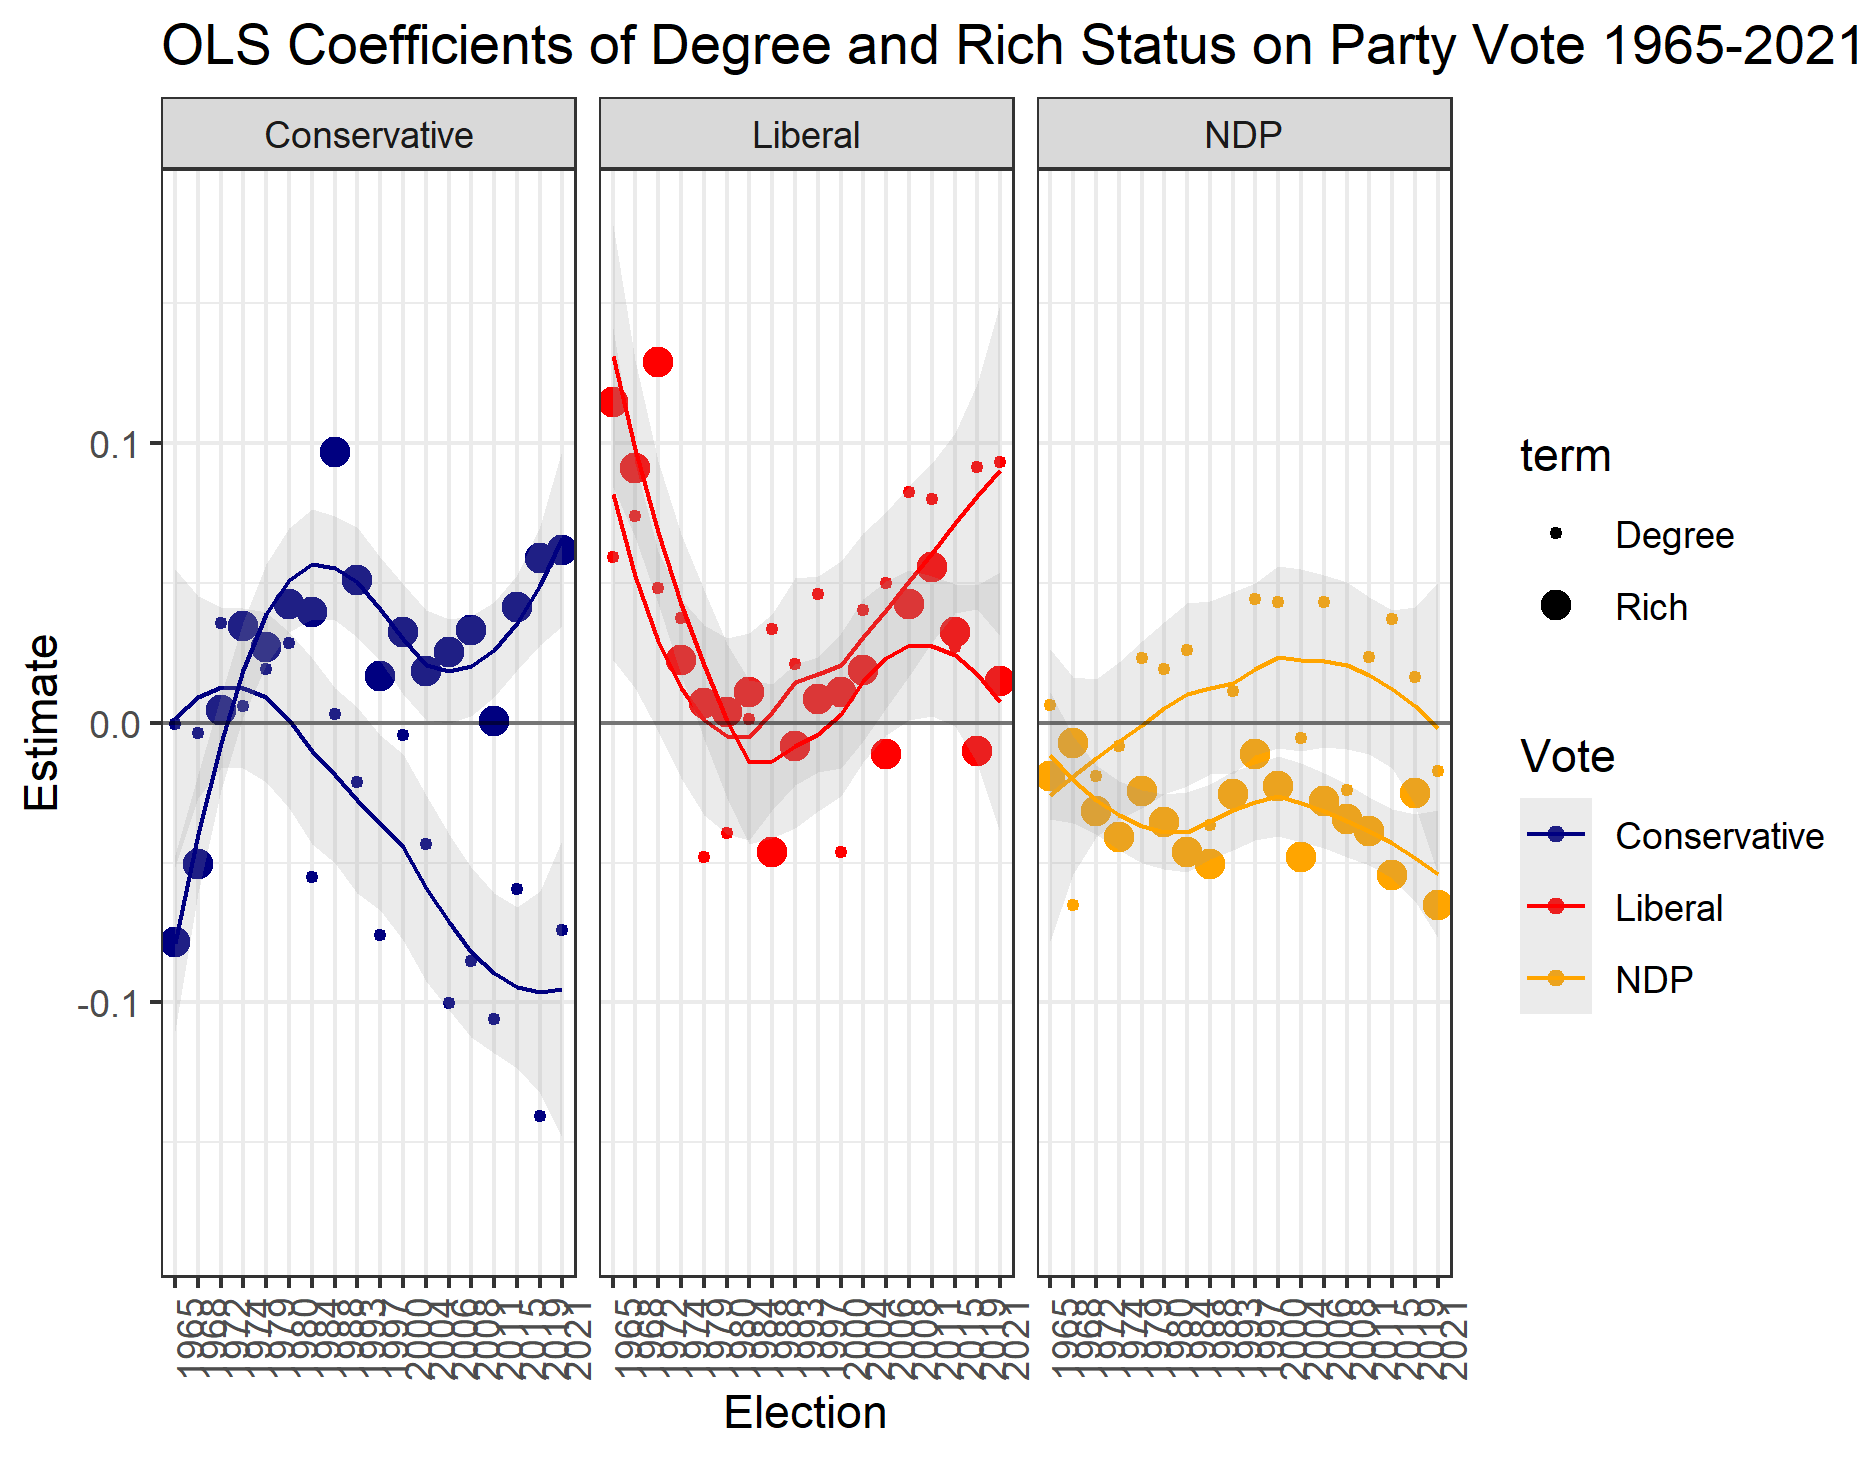
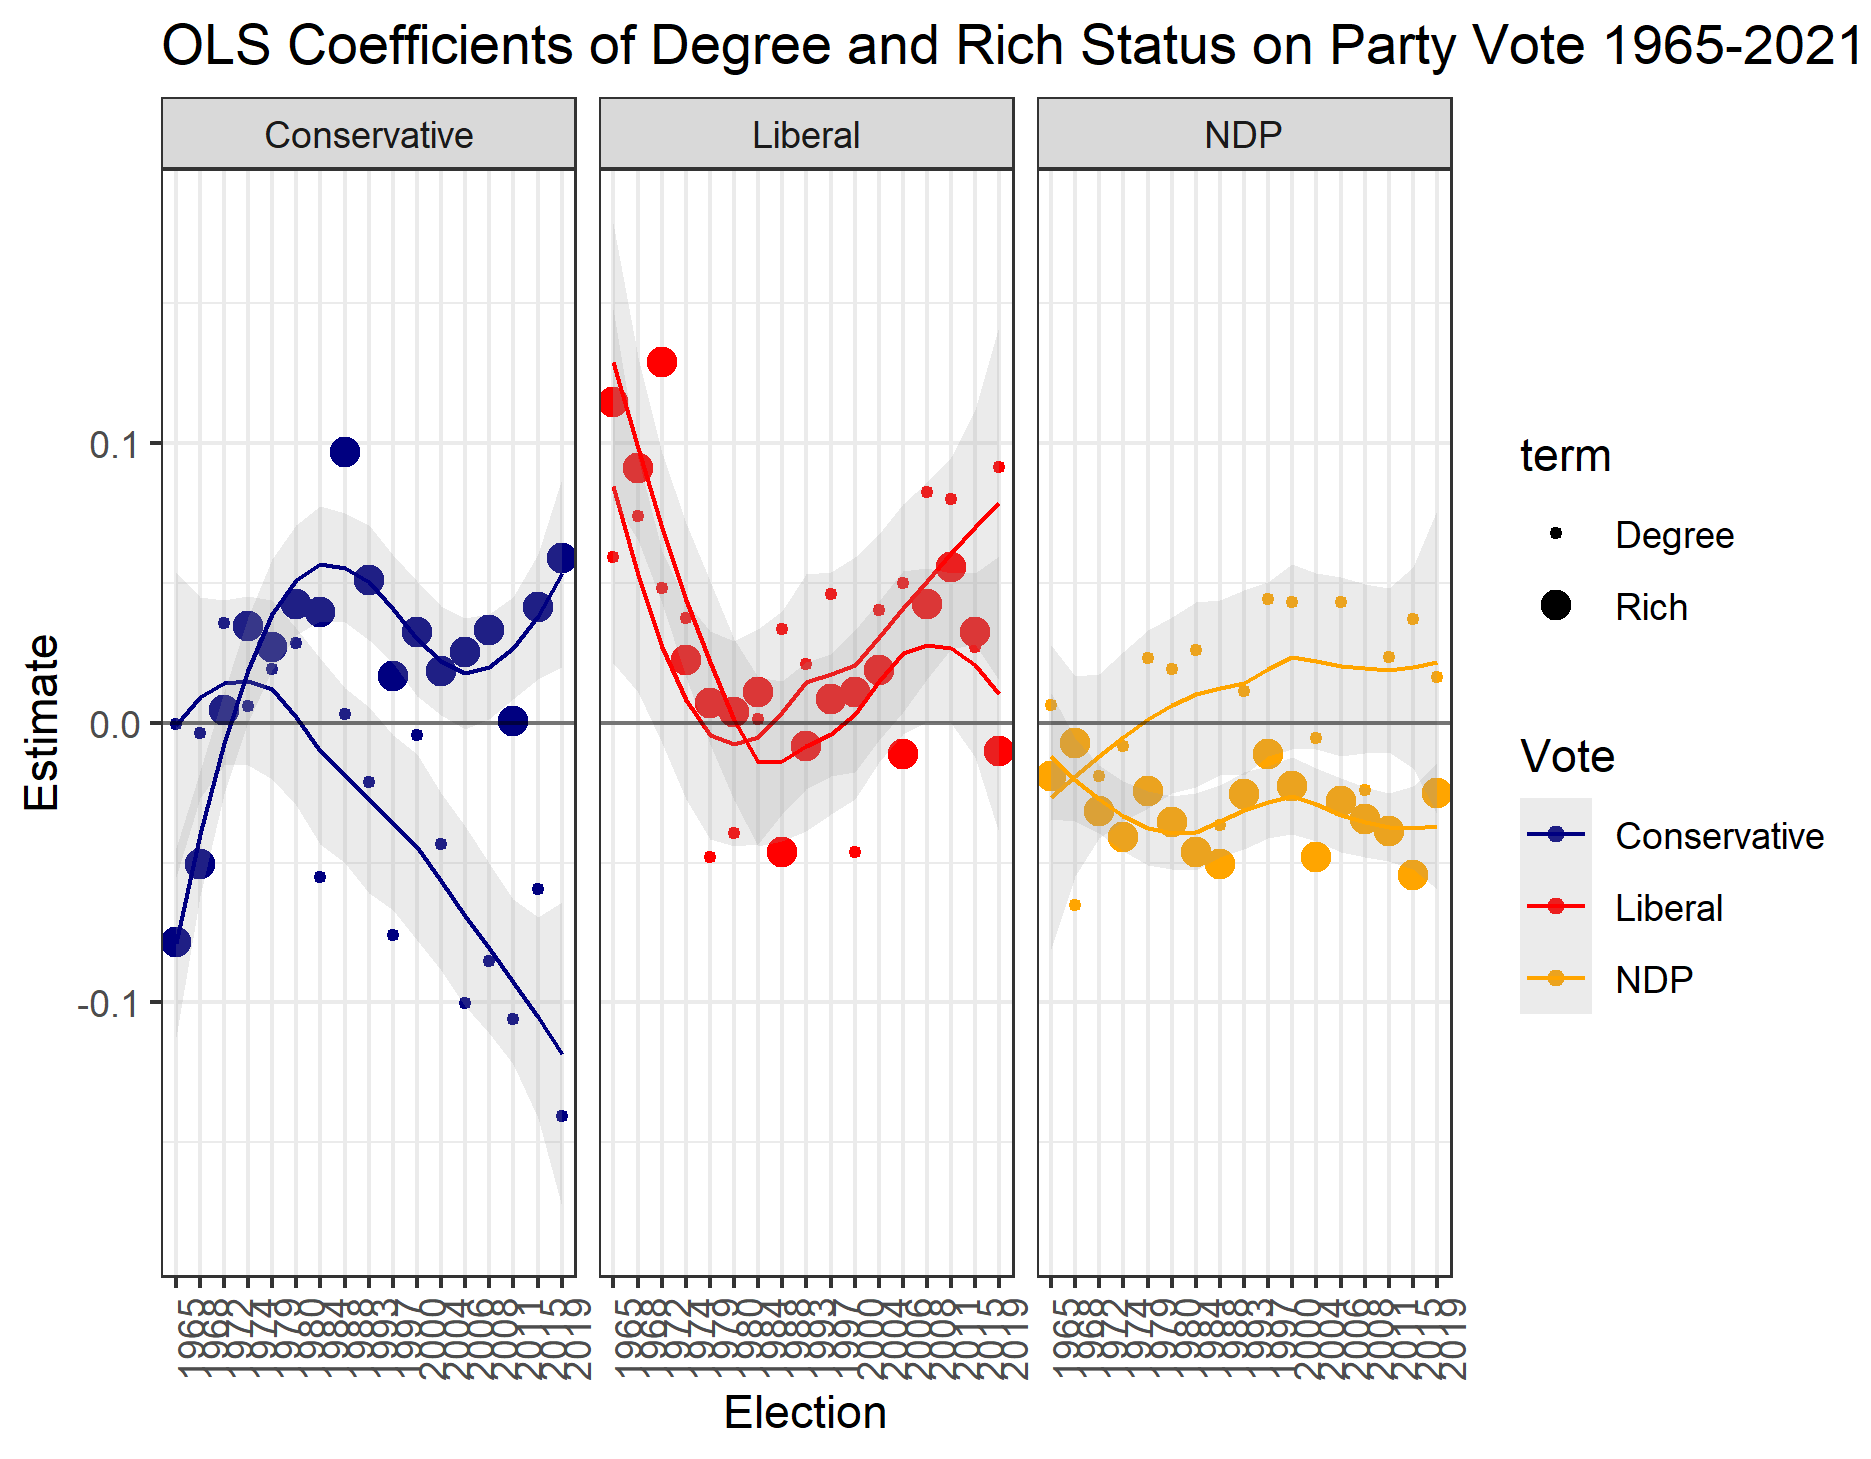
remove 2021 from graphs

diff --git a/Tables/ols_models.html b/Tables/ols_models.html
@@ -4,14 +4,14 @@
 <tr><td style="text-align:left"></td><td colspan="3">NDP</td><td colspan="3">Liberal</td><td colspan="3">Conservative</td></tr>
 <tr><td style="text-align:left"></td><td>1990s</td><td>2000s</td><td>2010s</td><td>1990s</td><td>2000s</td><td>2010s</td><td>1990s</td><td>2000s</td><td>2010s</td></tr>
 <tr><td style="text-align:left"></td><td>(1)</td><td>(2)</td><td>(3)</td><td>(4)</td><td>(5)</td><td>(6)</td><td>(7)</td><td>(8)</td><td>(9)</td></tr>
-<tr><td colspan="10" style="border-bottom: 1px solid black"></td></tr><tr><td style="text-align:left">Region (Quebec)</td><td>-0.13<sup>***</sup></td><td>-0.11<sup>***</sup></td><td>0.09<sup>***</sup></td><td>-0.23<sup>***</sup></td><td>-0.19<sup>***</sup></td><td>-0.18<sup>***</sup></td><td>-0.11<sup>***</sup></td><td>-0.14<sup>***</sup></td><td>-0.10<sup>***</sup></td></tr>
+<tr><td colspan="10" style="border-bottom: 1px solid black"></td></tr><tr><td style="text-align:left">Region (Quebec)</td><td>0.13<sup>***</sup></td><td>0.11<sup>***</sup></td><td>-0.09<sup>***</sup></td><td>0.23<sup>***</sup></td><td>0.19<sup>***</sup></td><td>0.18<sup>***</sup></td><td>0.11<sup>***</sup></td><td>0.14<sup>***</sup></td><td>0.10<sup>***</sup></td></tr>
 <tr><td style="text-align:left"></td><td>(0.02)</td><td>(0.01)</td><td>(0.02)</td><td>(0.03)</td><td>(0.02)</td><td>(0.02)</td><td>(0.03)</td><td>(0.02)</td><td>(0.02)</td></tr>
 <tr><td style="text-align:left"></td><td></td><td></td><td></td><td></td><td></td><td></td><td></td><td></td><td></td></tr>
-<tr><td style="text-align:left">Region (Ontario)</td><td>-0.05<sup>**</sup></td><td>-0.003</td><td>-0.003</td><td>0.03</td><td>-0.02</td><td>-0.06<sup>***</sup></td><td>-0.003</td><td>0.01</td><td>0.07<sup>***</sup></td></tr>
-<tr><td style="text-align:left"></td><td>(0.02)</td><td>(0.01)</td><td>(0.02)</td><td>(0.03)</td><td>(0.02)</td><td>(0.02)</td><td>(0.03)</td><td>(0.02)</td><td>(0.02)</td></tr>
+<tr><td style="text-align:left">Region (Ontario)</td><td>0.08<sup>***</sup></td><td>0.11<sup>***</sup></td><td>-0.09<sup>***</sup></td><td>0.26<sup>***</sup></td><td>0.17<sup>***</sup></td><td>0.12<sup>***</sup></td><td>0.11<sup>***</sup></td><td>0.15<sup>***</sup></td><td>0.17<sup>***</sup></td></tr>
+<tr><td style="text-align:left"></td><td>(0.02)</td><td>(0.01)</td><td>(0.01)</td><td>(0.03)</td><td>(0.02)</td><td>(0.02)</td><td>(0.03)</td><td>(0.01)</td><td>(0.01)</td></tr>
 <tr><td style="text-align:left"></td><td></td><td></td><td></td><td></td><td></td><td></td><td></td><td></td><td></td></tr>
-<tr><td style="text-align:left">Region (West)</td><td>0.001</td><td>0.06<sup>***</sup></td><td>0.08<sup>***</sup></td><td>-0.18<sup>***</sup></td><td>-0.20<sup>***</sup></td><td>-0.22<sup>***</sup></td><td>0.16<sup>***</sup></td><td>0.11<sup>***</sup></td><td>0.15<sup>***</sup></td></tr>
-<tr><td style="text-align:left"></td><td>(0.02)</td><td>(0.01)</td><td>(0.02)</td><td>(0.03)</td><td>(0.02)</td><td>(0.02)</td><td>(0.03)</td><td>(0.02)</td><td>(0.02)</td></tr>
+<tr><td style="text-align:left">Region (West)</td><td>0.13<sup>***</sup></td><td>0.17<sup>***</sup></td><td>-0.01</td><td>0.05<sup>*</sup></td><td>-0.01</td><td>-0.04<sup>**</sup></td><td>0.27<sup>***</sup></td><td>0.25<sup>***</sup></td><td>0.25<sup>***</sup></td></tr>
+<tr><td style="text-align:left"></td><td>(0.02)</td><td>(0.01)</td><td>(0.02)</td><td>(0.03)</td><td>(0.02)</td><td>(0.02)</td><td>(0.02)</td><td>(0.02)</td><td>(0.01)</td></tr>
 <tr><td style="text-align:left"></td><td></td><td></td><td></td><td></td><td></td><td></td><td></td><td></td><td></td></tr>
 <tr><td style="text-align:left">Age</td><td>0.001<sup>***</sup></td><td>-0.0005<sup>*</sup></td><td>-0.002<sup>***</sup></td><td>0.001<sup>**</sup></td><td>0.003<sup>***</sup></td><td>0.002<sup>***</sup></td><td>-0.001<sup>**</sup></td><td>-0.001<sup>***</sup></td><td>-0.001<sup>*</sup></td></tr>
 <tr><td style="text-align:left"></td><td>(0.0004)</td><td>(0.0003)</td><td>(0.0003)</td><td>(0.001)</td><td>(0.0003)</td><td>(0.0004)</td><td>(0.001)</td><td>(0.0003)</td><td>(0.0003)</td></tr>
@@ -46,7 +46,7 @@
 <tr><td style="text-align:left">Immigration Rates</td><td>-0.03<sup>*</sup></td><td>-0.03<sup>**</sup></td><td>-0.03</td><td>-0.07<sup>***</sup></td><td>-0.05<sup>***</sup></td><td>-0.13<sup>***</sup></td><td>0.07<sup>***</sup></td><td>0.07<sup>***</sup></td><td>0.15<sup>***</sup></td></tr>
 <tr><td style="text-align:left"></td><td>(0.01)</td><td>(0.01)</td><td>(0.02)</td><td>(0.03)</td><td>(0.02)</td><td>(0.02)</td><td>(0.02)</td><td>(0.02)</td><td>(0.02)</td></tr>
 <tr><td style="text-align:left"></td><td></td><td></td><td></td><td></td><td></td><td></td><td></td><td></td><td></td></tr>
-<tr><td style="text-align:left">Constant</td><td>0.25<sup>***</sup></td><td>0.40<sup>***</sup></td><td>0.26<sup>***</sup></td><td>0.48<sup>***</sup></td><td>0.31<sup>***</sup></td><td>0.34<sup>***</sup></td><td>0.28<sup>***</sup></td><td>0.19<sup>***</sup></td><td>0.23<sup>***</sup></td></tr>
+<tr><td style="text-align:left">Constant</td><td>0.12<sup>***</sup></td><td>0.29<sup>***</sup></td><td>0.35<sup>***</sup></td><td>0.25<sup>***</sup></td><td>0.11<sup>***</sup></td><td>0.16<sup>***</sup></td><td>0.17<sup>***</sup></td><td>0.05</td><td>0.12<sup>***</sup></td></tr>
 <tr><td style="text-align:left"></td><td>(0.04)</td><td>(0.03)</td><td>(0.04)</td><td>(0.06)</td><td>(0.04)</td><td>(0.04)</td><td>(0.06)</td><td>(0.04)</td><td>(0.04)</td></tr>
 <tr><td style="text-align:left"></td><td></td><td></td><td></td><td></td><td></td><td></td><td></td><td></td><td></td></tr>
 <tr><td colspan="10" style="border-bottom: 1px solid black"></td></tr><tr><td style="text-align:left">Observations</td><td>2,901</td><td>7,818</td><td>6,772</td><td>2,901</td><td>7,818</td><td>6,772</td><td>2,901</td><td>7,818</td><td>6,772</td></tr>
